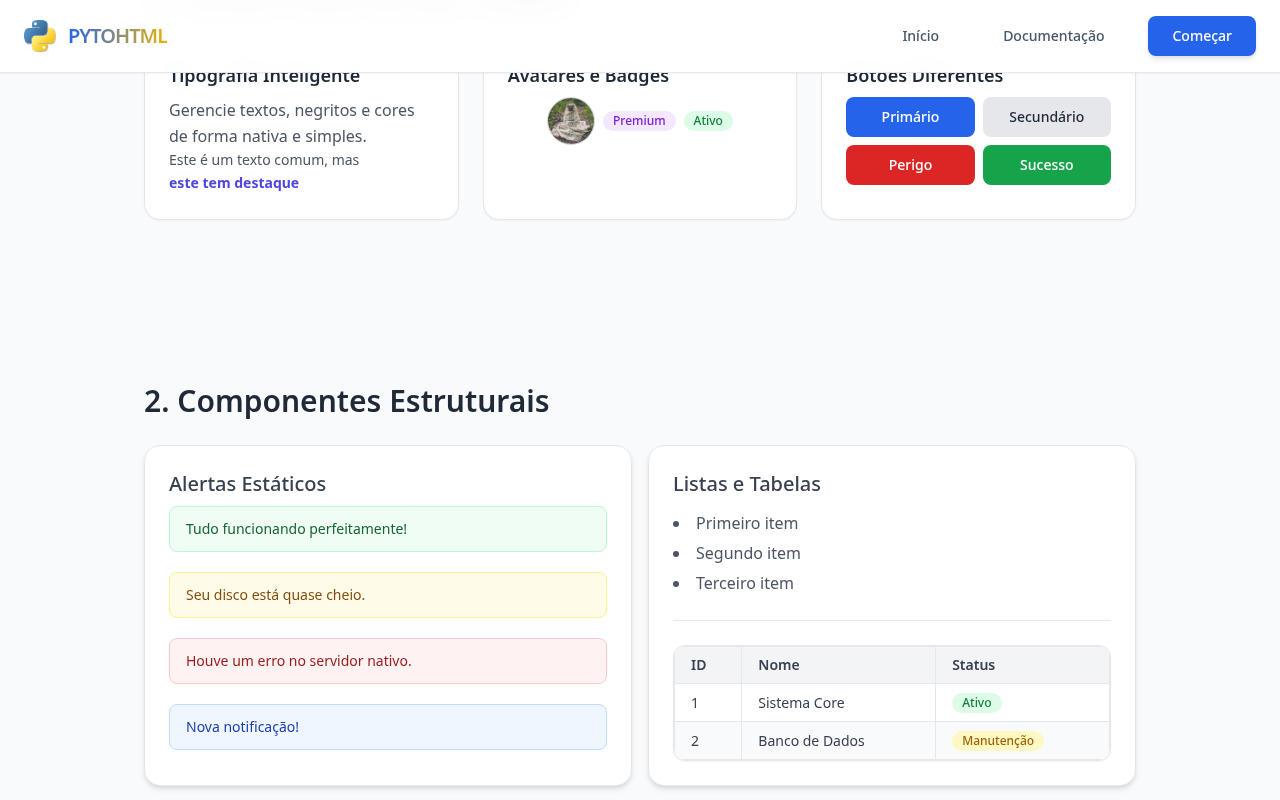
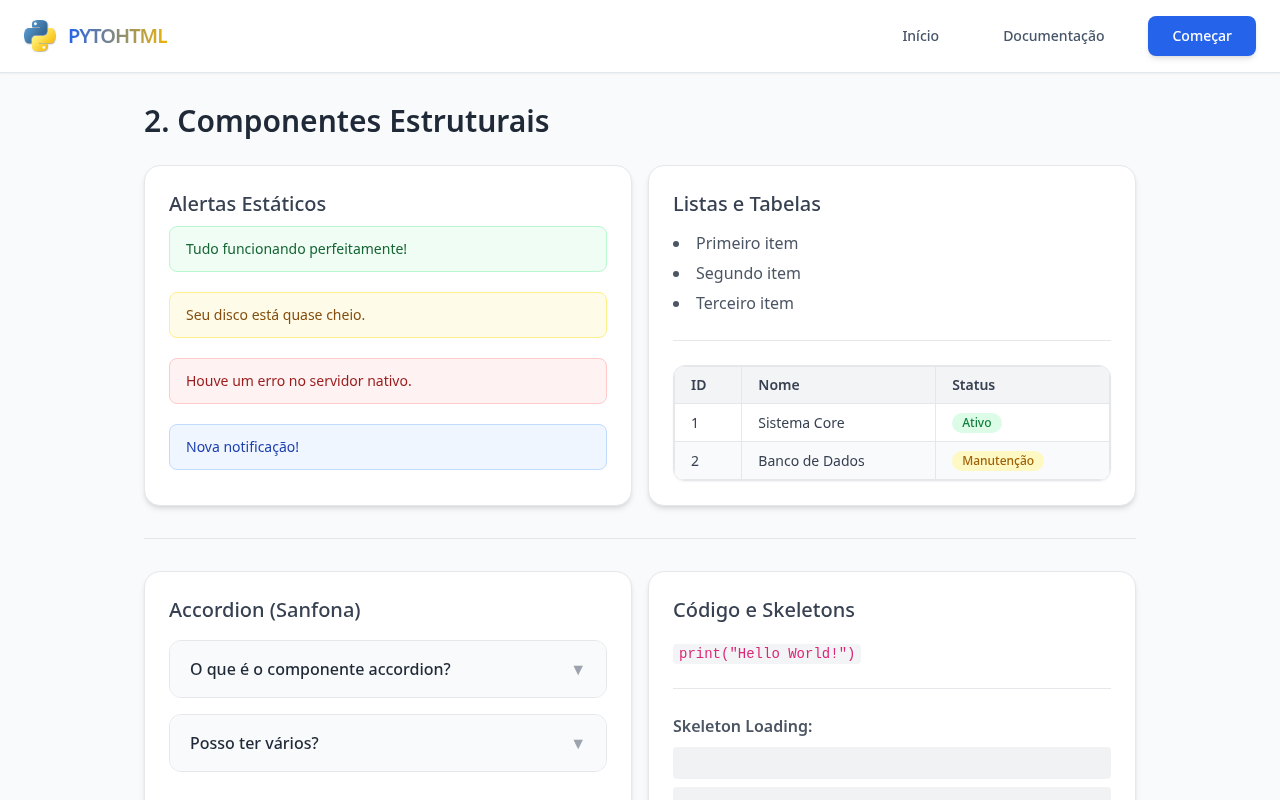
Corrige screenshots e melhora README
- Screenshots reposicionados com precisão por seção (scroll baseado em offsetTop real)
- Viewport duplo (1200px) para elementos-basicos mostrar mais conteúdo
- Licença corrigida para GPL-3.0
- Descrição do projeto expandida com motivações e diferenciais

Made-with: Cursor

diff --git a/README.md b/README.md
@@ -8,9 +8,17 @@
 
 ## O que é
 
-**pytohtml** transforma código Python em HTML completo, estilizado com Tailwind CSS e pronto para abrir no navegador. Você escreve funções Python, ela gera o arquivo `.html`.
+**pytohtml** é uma biblioteca Python que permite construir interfaces web completas usando apenas código Python. Cada elemento da página — títulos, botões, formulários, tabelas, modais, grids — é uma função Python que retorna HTML semântico estilizado com Tailwind CSS.
 
-Sem templates. Sem frameworks front-end. Sem npm.
+O fluxo é simples: você escreve Python, a biblioteca gera um arquivo `.html` pronto para abrir no navegador, compartilhar ou hospedar em qualquer servidor estático.
+
+**Por que usar?**
+
+- **Zero dependências Python** — nada para instalar via pip. Tailwind CSS, SweetAlert2 e Brython carregam via CDN.
+- **Sem templates** — você não escreve strings de HTML. A estrutura é definida pela composição de funções.
+- **Interatividade opcional** — alertas e confirmações funcionam via SweetAlert2 sem JavaScript manual. Para lógica mais complexa, Brython permite executar Python diretamente no browser.
+- **Componentes prontos** — grids responsivos, skeleton loading, accordion, modais nativos e tabelas estilizadas já estão incluídos.
+- **Ideal para quem está aprendendo** — uma forma de criar resultados visuais reais sem sair do ecossistema Python.
 
 ---
 
@@ -29,7 +37,15 @@ meu-projeto/
 └── meu_script.py
 ```
 
-**Requisitos:** Python 3.10+ · Conexão com internet (Tailwind via CDN)
+Ou clone o repositório e execute seus scripts a partir da raiz:
+
+```bash
+git clone https://github.com/GabrielUzeda/pytohtml.git
+cd pytohtml
+python meu_script.py
+```
+
+**Requisitos:** Python 3.10+ · Conexão com internet (Tailwind e SweetAlert2 via CDN)
 
 ---
 
@@ -39,9 +55,19 @@ meu-projeto/
 from pytohtml import *
 
 pagina = html(
-    titulo("Olá, Mundo!", tamanho="gigante"),
-    paragrafo("Bem-vindo ao pytohtml."),
-    botao("Começar", variante="primario"),
+    cabecalho(nav(
+        titulo("Meu Site", tamanho="medio"),
+        botao("Contato", variante="primario"),
+        classes="w-full justify-between"
+    )),
+    secao(container(
+        titulo("Bem-vindo ao pytohtml", tamanho="gigante"),
+        paragrafo("HTML gerado com Python puro, estilizado com Tailwind CSS."),
+        linha(
+            botao("Começar agora", variante="primario"),
+            botao("Ver docs", variante="secundario"),
+        )
+    )),
     titulo_pagina="Meu Site"
 )
 
@@ -61,7 +87,7 @@ python meu_script.py
 
 ![Elementos Básicos](screenshots/elementos-basicos.png)
 
-Títulos, parágrafos, links, listas, botões com variantes de cor, avatares, badges e muito mais — tudo com uma linha de Python.
+Títulos semânticos (`<h1>`–`<h4>`), parágrafos, links, listas, botões com variantes de cor (primário, secundário, perigo, sucesso), avatares com foto ou iniciais, badges coloridas, imagens responsivas e blocos de código — tudo com uma chamada de função.
 
 ---
 
@@ -69,7 +95,7 @@ Títulos, parágrafos, links, listas, botões com variantes de cor, avatares, ba
 
 ![Componentes](screenshots/componentes.png)
 
-Alertas estáticos, tabelas, cards, accordion, skeleton loading, código com destaque — componentes prontos para uso imediato.
+Alertas estáticos com quatro níveis de severidade, tabelas geradas a partir de listas Python, cards de conteúdo, accordion nativo sem JavaScript, código com destaque de sintaxe e skeleton loading para estados de carregamento.
 
 ---
 
@@ -77,7 +103,7 @@ Alertas estáticos, tabelas, cards, accordion, skeleton loading, código com des
 
 ![Formulários](screenshots/formularios.png)
 
-Campos, labels, textarea e o wrapper `formulario()` organizam tudo com espaçamento automático e estilos consistentes.
+Labels semânticos, inputs estilizados, campos de senha e data, textarea com redimensionamento vertical e o wrapper `formulario()` que organiza tudo com espaçamento automático entre campos.
 
 ---
 
@@ -85,7 +111,7 @@ Campos, labels, textarea e o wrapper `formulario()` organizam tudo com espaçame
 
 ![Interatividade](screenshots/interatividade.png)
 
-Popups e confirmações via SweetAlert2 sem escrever JavaScript. Para interações mais complexas, use Brython — Python rodando diretamente no navegador.
+Popups elegantes via SweetAlert2 sem JavaScript manual: alertas de sucesso/erro/aviso, toasts não intrusivos e diálogos de confirmação. Para lógica mais avançada, Brython permite escrever handlers de eventos, estado reativo e chamadas a APIs externas — tudo em Python.
 
 ---
 
@@ -143,4 +169,4 @@ A documentação completa com exemplos de cada função está disponível na **[
 
 ## Licença
 
-[MIT](LICENSE)
+[GPL-3.0](LICENSE)
